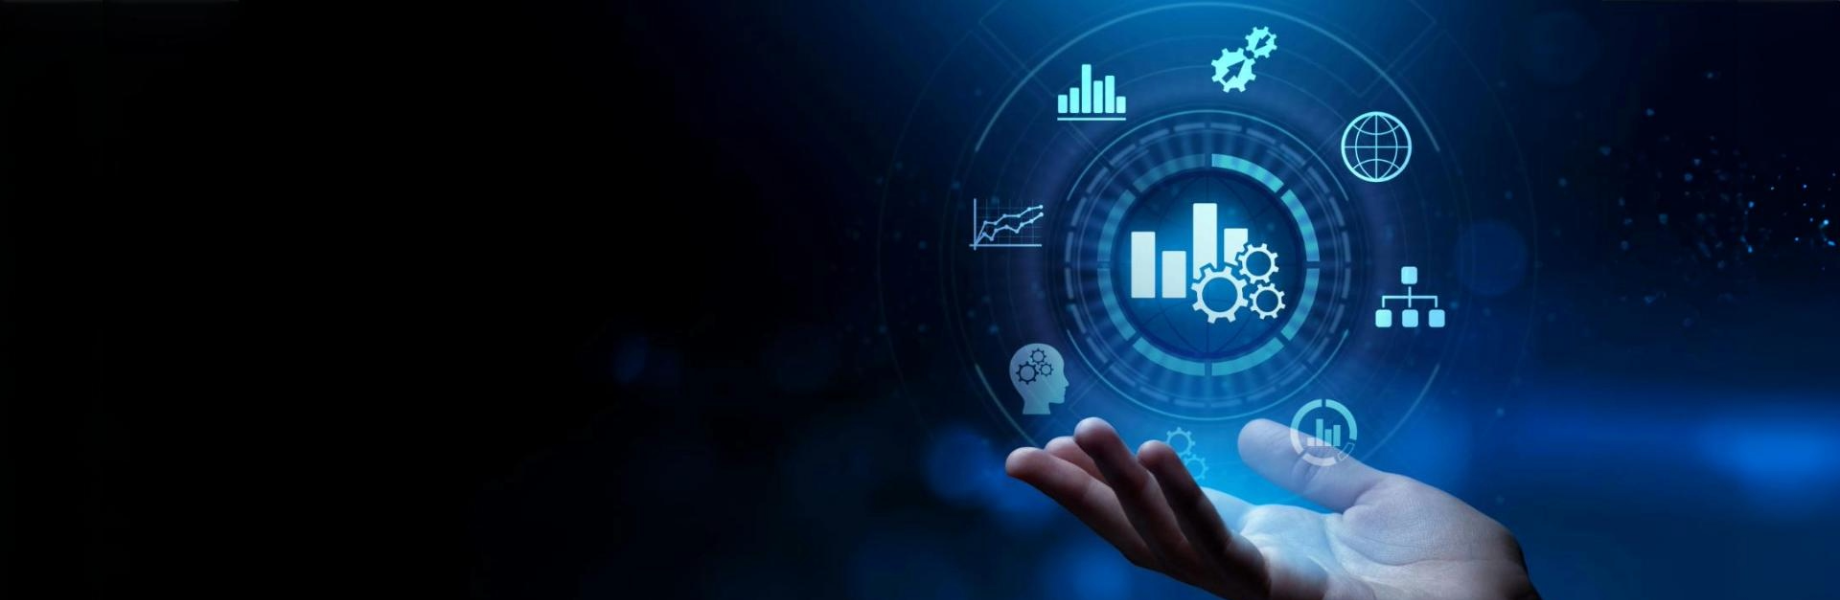
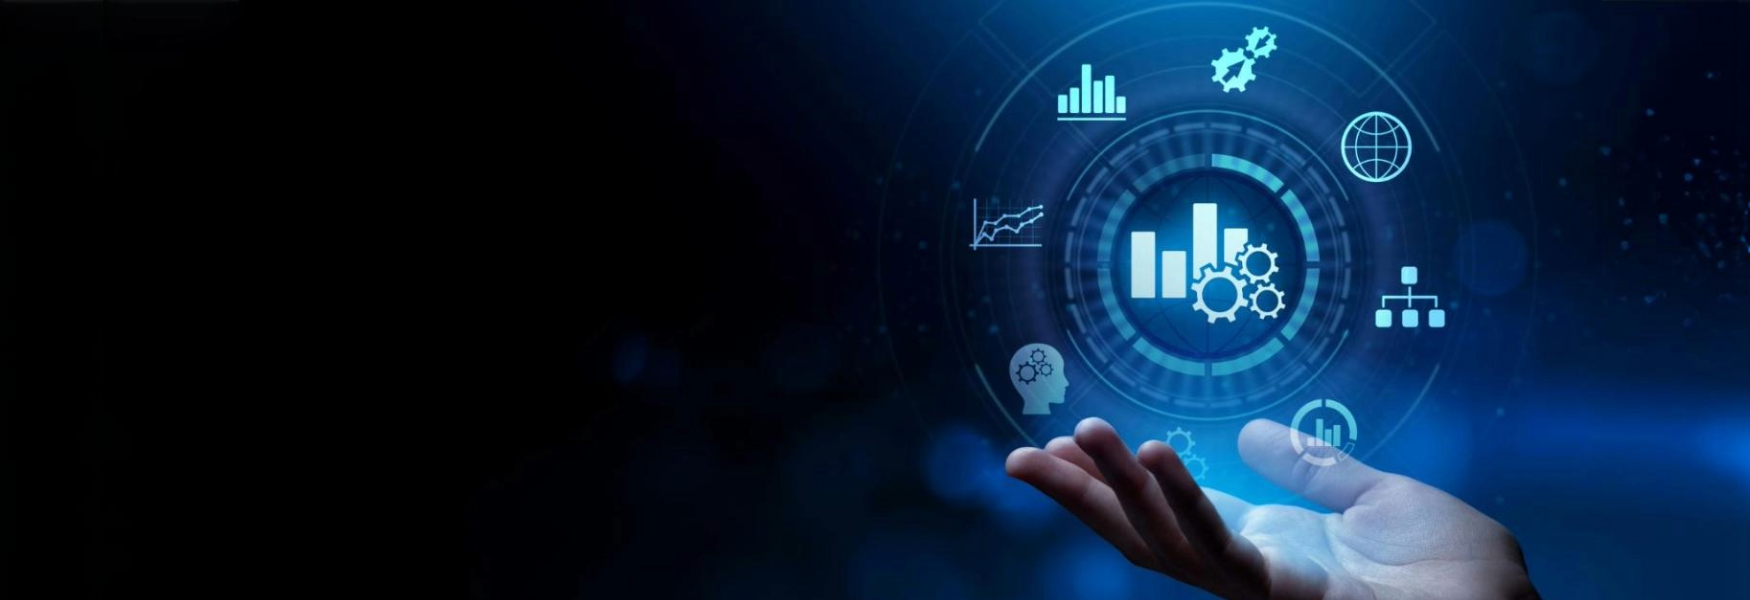
home cards completed

diff --git a/vue-bootstrap-static/src/components/home_page/home_cards/ConsultingCard.vue b/vue-bootstrap-static/src/components/home_page/home_cards/ConsultingCard.vue
@@ -1,5 +1,23 @@
 <template>
-    <h1>Consulting Card</h1>
+    <div class="card w-25">
+        <router-link to="/services#consulting" class="link">
+            <img src="@/assets/images/home_page/icons/consulting_icon.png" class="card-img-top mx-auto" alt="Consulting Icon Image"/>
+        </router-link>    
+        <div class="card-body">
+            <router-link to="/services#consulting" class="link">
+                <h2 class="card-title h5"><b>Consulting</b></h2>
+            </router-link>
+            <p class="card-text text">Personalized consulting services to help you choose the best technology solutions for your business.</p>
+        </div>
+        <ul class="list text-start">
+            <li class="list-item text"><b>Network Analysis: </b>Optimize performance</li>
+            <li class="list-item text"><b>Network Design: </b>Custom network solutions</li>
+            <li class="list-item text"><b>Consulting Expertise: </b>Tailored recommendations</li>
+        </ul>
+        <div class="card-link">
+            <router-link to="/services#consulting">Learn More</router-link>
+        </div>
+    </div>
 </template>
 
 <script>
@@ -9,5 +27,30 @@ export default {
 </script>
 
 <style scoped>
+.card {
+    line-height: 1.4;
+    padding-bottom: 1rem;
+}
 
+.link {
+    text-decoration: none;
+    color: black;
+}
+
+.card-img-top {
+    width: 20%;
+    font-size: 1.5rem;
+}
+
+.card-body{
+    padding: .5rem;
+}
+
+.list {
+    list-style-type: disc;
+}
+
+.list-item {
+    padding-block: .3rem;
+}
 </style>

diff --git a/vue-bootstrap-static/src/components/home_page/home_cards/SupportCard.vue b/vue-bootstrap-static/src/components/home_page/home_cards/SupportCard.vue
@@ -1,5 +1,23 @@
 <template>
-    <h1>Support Card</h1>
+    <div class="card w-25">
+        <router-link to="/services#support" class="link">
+            <img src="@/assets/images/home_page/icons/support_icon.png" class="card-img-top mx-auto" alt="Support Icon Image"/>
+        </router-link>    
+        <div class="card-body">
+            <router-link to="/services#support" class="link">
+                <h2 class="card-title h5"><b>Support</b></h2>
+            </router-link>
+            <p class="card-text text">Receive expert assistance for all your VoIP and network communication system needs.</p>
+        </div>
+        <ul class="list text-start">
+            <li class="list-item text"><b>Hourly Support: </b>Non-emergency assistance</li>
+            <li class="list-item text"><b>Emergency Support: </b>Critical issue resolution</li>
+            <li class="list-item text"><b>Locations????</b></li>
+        </ul>
+        <div class="card-link">
+            <router-link to="/services#support">Learn More</router-link>
+        </div>
+    </div>
 </template>
 
 <script>
@@ -9,5 +27,30 @@ export default {
 </script>
 
 <style scoped>
+.card {
+    line-height: 1.4;
+    padding-bottom: 1rem;
+}
 
+.link {
+    text-decoration: none;
+    color: black;
+}
+
+.card-img-top {
+    width: 20%;
+    font-size: 1.5rem;
+}
+
+.card-body{
+    padding: .5rem;
+}
+
+.list {
+    list-style-type: disc;
+}
+
+.list-item {
+    padding-block: .3rem;
+}
 </style>

diff --git a/vue-bootstrap-static/src/components/home_page/home_cards/VideoSecurityCard.vue b/vue-bootstrap-static/src/components/home_page/home_cards/VideoSecurityCard.vue
@@ -1,5 +1,23 @@
 <template>
-    <h1>Video Security Card</h1>
+    <div class="card w-25">
+        <router-link to="/services#video-security" class="link">
+            <img src="@/assets/images/home_page/icons/video_security_icon.png" class="card-img-top mx-auto" alt="Video Security Icon Image"/>
+        </router-link>    
+        <div class="card-body">
+            <router-link to="/services#video-security" class="link">
+                <h2 class="card-title h5"><b>Video Security</b></h2>
+            </router-link>
+            <p class="card-text text">Solutions for your video security needs, including cameras, door access systems and NVR integration.</p>
+        </div>
+        <ul class="list text-start">
+            <li class="list-item text"><b>Cameras: </b>Advanced video surveillance solutions</li>
+            <li class="list-item text"><b>Door Access: </b>Secure entry systems</li>
+            <li class="list-item text"><b>NVR Integration: </b>Video storage and management</li>
+        </ul>
+        <div class="card-link">
+            <router-link to="/services#video-security">Learn More</router-link>
+        </div>
+    </div>
 </template>
 
 <script>
@@ -9,5 +27,30 @@ export default {
 </script>
 
 <style scoped>
+.card {
+    line-height: 1.4;
+    padding-bottom: 1rem;
+}
 
+.link {
+    text-decoration: none;
+    color: black;
+}
+
+.card-img-top {
+    width: 20%;
+    font-size: 1.5rem;
+}
+
+.card-body{
+    padding: .5rem;
+}
+
+.list {
+    list-style-type: disc;
+}
+
+.list-item {
+    padding-block: .3rem;
+}
 </style>

diff --git a/vue-bootstrap-static/src/components/home_page/home_cards/VoIPCard.vue b/vue-bootstrap-static/src/components/home_page/home_cards/VoIPCard.vue
@@ -1,5 +1,23 @@
 <template>
-    <h1>VoIP Card</h1>
+    <div class="card w-25">
+        <router-link to="/services#voip" class="link">
+            <img src="@/assets/images/home_page/icons/voip_icon.png" class="card-img-top mx-auto" alt="VoIP Icon Image"/>
+        </router-link>    
+        <div class="card-body">
+            <router-link to="/services#voip" class="link">
+                <h2 class="card-title h5"><b>VoIP Solutions</b></h2>
+            </router-link>
+            <p class="card-text text">VoIP services including hosting, installation, and support to keep your business connected.</p>
+        </div>
+        <ul class="list text-start">
+            <li class="list-item text"><b>VoIP Service: </b>Reliable communication solutions</li>
+            <li class="list-item text"><b>Installation: </b>Professional setup and configuration</li>
+            <li class="list-item text"><b>Support: </b>Ongoing assistance for connectivity</li>
+        </ul>
+        <div class="card-link">
+            <router-link to="/services#video-security">Learn More</router-link>
+        </div>
+    </div>
 </template>
 
 <script>
@@ -9,5 +27,30 @@ export default {
 </script>
 
 <style scoped>
+.card {
+    line-height: 1.4;
+    padding-bottom: 1rem;
+}
 
+.link {
+    text-decoration: none;
+    color: black;
+}
+
+.card-img-top {
+    width: 20%;
+    font-size: 1.5rem;
+}
+
+.card-body{
+    padding: .5rem;
+}
+
+.list {
+    list-style-type: disc;
+}
+
+.list-item {
+    padding-block: .3rem;
+}
 </style>

diff --git a/vue-bootstrap-static/src/components/home_page/HomeJumbotron.vue b/vue-bootstrap-static/src/components/home_page/HomeJumbotron.vue
@@ -1,7 +1,7 @@
 <template>
     <main class="jumbotron">
         <section class="text-container col-md-6">
-            <h1 class="text-white">Your Technology Needs,<br>Our Expertise.</h1>
+            <h1 class="h2 text-white"><b>Your Technology Needs,<br>Our Expertise.</b></h1>
             <hr class="text-secondary mx-auto">
             <article class="text mx-auto">
                 <p class="text-white">We specialize in providing top-tier services designed to meet all your business technology needs, including:</p>
@@ -29,7 +29,7 @@ export default {
 <style scoped>
 .jumbotron {
     width: 100%;
-    height: 25rem;
+    height: 22rem;
     background-image: url('@/assets/images/home_page/home_jumbotron.png');
     background-size: 100% 100%;
     background-position: center;
@@ -39,17 +39,19 @@ export default {
 .text-container {
     line-height: 1.3;
     padding-top: 3%;
+    margin-left: 5%;
 }
 
 hr {
-    width: 35%;
+    width: 25%;
     border: 3px solid;
+    padding: 0;
+    margin-block: .6rem;
 }
 
 .text {
-    width: 85%;
-    font-family: 'Helvetica', sans-serif;
-    font-size: 1.5rem;
+    width: 70%;
+    font-size: 1.3rem;
 }
 
 .text-info {
@@ -62,7 +64,7 @@ hr {
     justify-content: center;
     align-items: center;
     width: 30%;
-    font-size: 1.1rem;
+    font-size: 1rem;
     color: black;
     background: linear-gradient(to right, #80E0FC, #187EC1);
     margin: 0 auto;
@@ -79,7 +81,7 @@ hr {
     display: flex;
     justify-content: center;
     align-items: center;
-    width: 15%;
+    width: 12%;
     height: auto;
 }
 
@@ -124,12 +126,12 @@ hr {
 .btn:hover .btn-text {
     color: white;
     font-weight: 500;
-    transform: scale(1.1); /* Scale only the text inside the button */
+    transform: scale(1.05); /* Scale only the text inside the button */
 }
 
 .btn:hover .btn-img {
-    width: 20%;
-    transform: translateX(8px);
+    width: 15%;
+    transform: translateX(5px);
 }
 
 .btn:hover .black-img {

diff --git a/vue-bootstrap-static/src/views/Home.vue b/vue-bootstrap-static/src/views/Home.vue
@@ -1,7 +1,13 @@
 <template>
     <main>
-        <HomeJumbotron />
-        <section class="card-container d-flex flex-row w-100">
+        <section class="jumbotron">
+            <HomeJumbotron />
+        </section>
+        <section class="banner">
+            <span>WHAT WE OFFER</span>
+            <hr class="text-secondary p-0 m-0 mx-auto">
+        </section>
+        <section class="card-container d-flex flex-row flex-wrap w-100 pt-2">
             <ConsultingCard/>
             <SupportCard/>
             <VideoSecurityCard/>
@@ -62,6 +68,16 @@ export default {
 /* Desktop Screen Size Styling */
 @media only screen and (min-width: 1280px) {
 
+    .banner {
+        font-size: 1.3rem;
+        font-weight: 600;
+        padding-top: .25rem;
+    }
+
+    hr {
+        width: 11%;
+        border: 2px solid;
+    }
 }
 
 /* Laptop Screen Size Styling */

diff --git a/vue-bootstrap-static/src/App.vue b/vue-bootstrap-static/src/App.vue
@@ -36,7 +36,7 @@ export default {
   width: 100%;
   text-align: center;
   font-size: 16px;
-  font-family: 'Roboto', sans-serif;
+  font-family: 'Helvetica', sans-serif;
   -webkit-font-smoothing: antialiased;
   -moz-osx-font-smoothing: grayscale;
   margin: 0;
@@ -51,6 +51,5 @@ main {
 
 h1 {
   font-family: 'Georgia', serif;
-  font-size: 2rem;
 }
 </style>

diff --git a/vue-bootstrap-static/src/components/NavBar.vue b/vue-bootstrap-static/src/components/NavBar.vue
@@ -81,7 +81,7 @@ export default {
 @media only screen and (min-width: 1280px) {
 
   nav {
-    height: 65px;
+    height: 3.5vw;
   }
 }
 

diff --git a/vue-bootstrap-static/src/components/contact_page/ContactForm.vue b/vue-bootstrap-static/src/components/contact_page/ContactForm.vue
@@ -96,7 +96,6 @@ main {
 }
 
 label {
-  font-family: 'Helvetica', sans-serif;
   font-size: 1.2rem;
 }
 